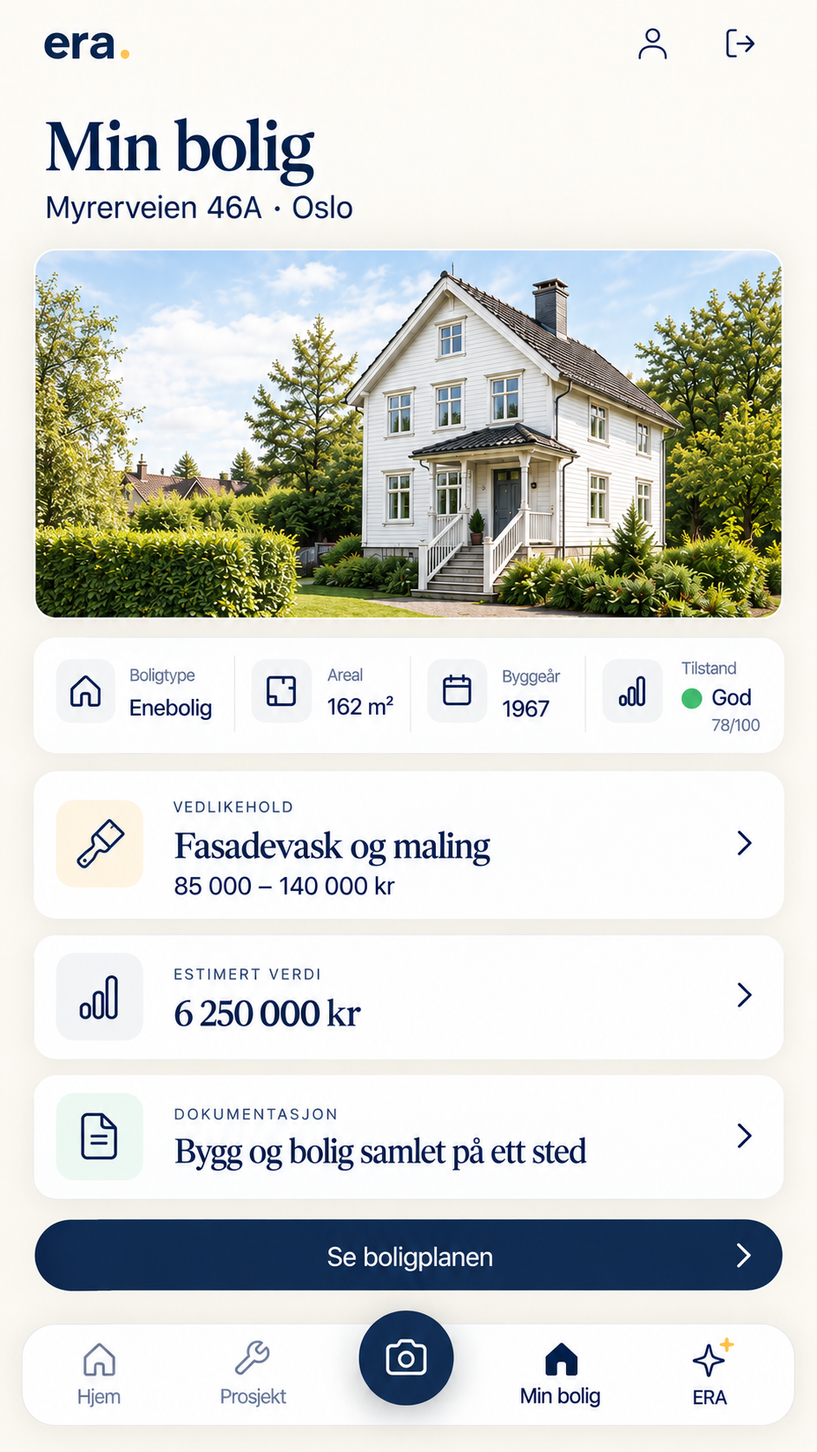
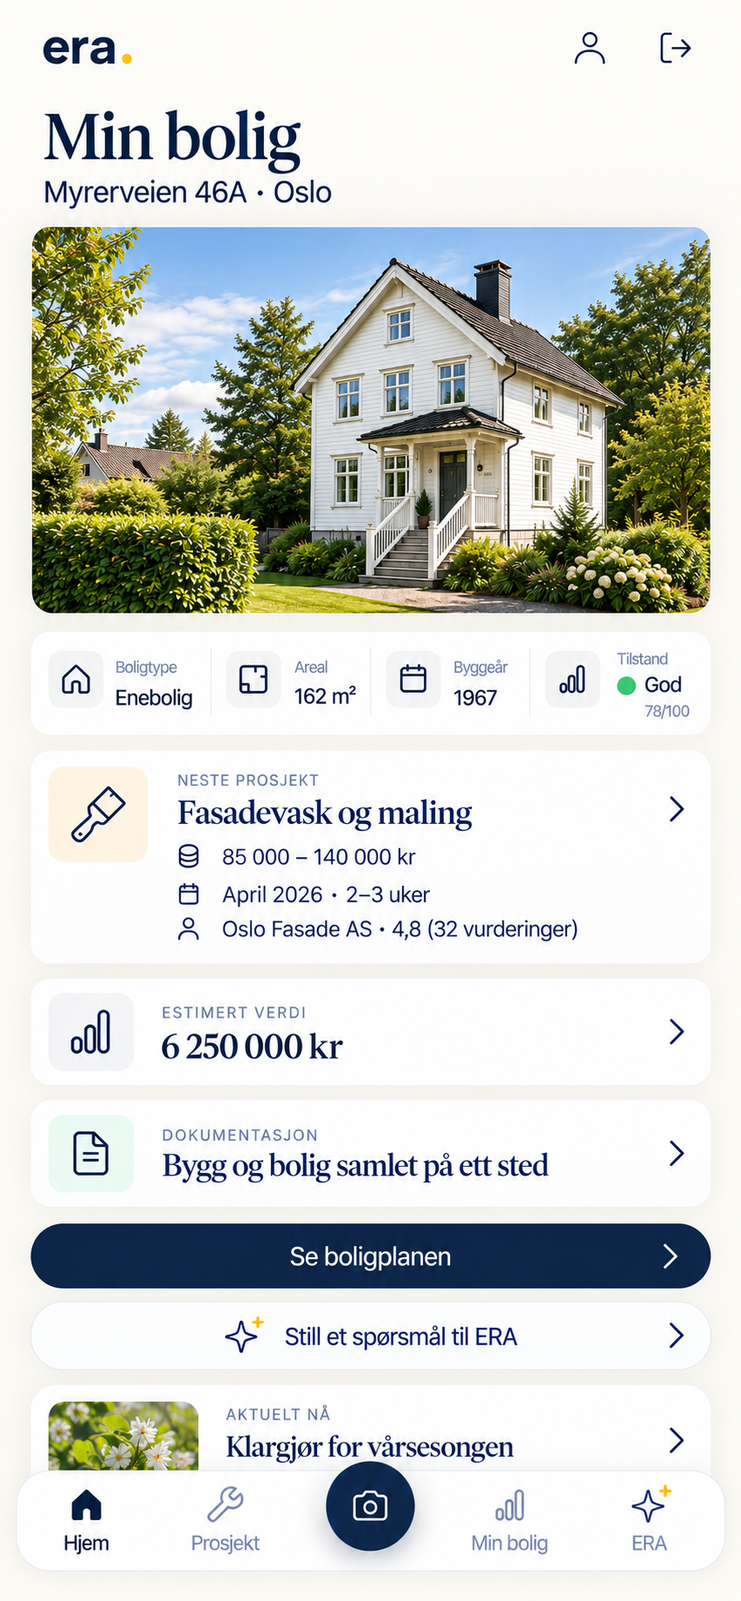
Nye Min bolig- og Boligagent-skjermer i 853×1844 (#67)
* Nye Min bolig- og Boligagent-skjermer i 853x1844

Begge er eksportert med faktaarkets tall: 1967, 85 000-140 000 kr,
6 250 000 kr, Myrerveien 46A. Alle fem skjermene ligger na pa 853x1844,
sa loop-stripen er jevn igjen — Min bolig var 91px kortere enn naboene.

Boligagenten viser na hele huset merket av med fasade og tak til
oppfolging, takrenner og grunnmur i god stand. Punktene under seksjonen
beskrev den gamle naerbildeanalysen av vinduet og er skrevet om til det
skjermen faktisk viser.

Min bolig har fatt et "Neste prosjekt"-kort med kostnad, oppstart og
handverker; alt-teksten folger.

Igjen: Hjem og Prosjekt. Hjem viser fortsatt 1987, 6,8 mill. og
80 000-120 000 kr, Prosjekt viser 80 000-120 000 kr. To av fem skjermer
i loop-stripen motsier dermed fortsatt de tre andre.

* Alt-tekst for Hjem og Prosjekt folger bildet, ikke faktaarket

Vi publiserer med de skjermene vi har. Hjem og Prosjekt er ikke
eksportert pa nytt og viser fortsatt 1987, 6,8 mill. og 80 000-120 000 kr.

Alt-tekstene deres var bundet til DEMO_HOME og ville lest opp tall en
seende besokende ikke finner pa skjermen. De beskriver na det bildet
faktisk viser.

PENDING_REEXPORT i check-demo-home.py lister de to skjermenes verdier og
rapporterer dem som advarsel i stedet for feil, sa sperren fortsatt er
brukbar. Tom dicten nar skjermene byttes — da blir de harde feil igjen.

---------

diff --git a/boligeier/index.html b/boligeier/index.html
@@ -45,12 +45,12 @@
     <p class="lede">ERA forstår hva boligen din trenger, og hva som bør gjøres først. Tilstand, historikk, dokumentasjon og prioriteringer, samlet i én plan for hjemmet.</p>
     <div class="hero-actions"><a class="btn" href="#skjema">Søk om betatilgang</a><a class="link" href="#slik">Se hvordan ERA fungerer</a></div>
   </div>
-  <div class="hero-visual"><div class="pw-phone pw-phone--lg"><img src="/assets/story/app-hjem.png" width="853" height="1844" alt="ERA Bolig på mobil: forsiden for Myrerveien 46A med boligtype enebolig, 162 m², byggeår 1967, tilstand God 78 av 100, neste tiltak «Fasadevask og maling» og estimert kostnad 85 000–140 000 kr" loading="eager" fetchpriority="high" decoding="async"></div></div>
+  <div class="hero-visual"><div class="pw-phone pw-phone--lg"><img src="/assets/story/app-hjem.png" width="853" height="1844" alt="ERA Bolig på mobil: forsiden for Myrerveien 46A med boligtype enebolig, 162 m², byggeår 1987, tilstand God 78 av 100, neste tiltak «Fasadevask og maling» og estimert kostnad 80 000–120 000 kr" loading="eager" fetchpriority="high" decoding="async"></div></div>
   </div>
 </header>
 
 <main>
-  <section class="section appsec alt appsec--flip" id="slik"><div class="wrap"><div class="appsec-text"><div class="label">Min bolig</div><h2>Alt om boligen. Ett sted.</h2><p class="lede">Ikke bare data fra registre. ERA bygger en levende boligprofil som utvikler seg når du legger til rom, dokumentasjon, arbeid og nye opplysninger.</p></div><div class="appsec-visual"><div class="pw-phone pw-phone--lg"><img src="/assets/story/app-minbolig.png" width="941" height="1672" alt="ERA Bolig: Min bolig for Myrerveien 46A – enebolig fra 1967 på 162 m² med tilstand God 78 av 100, vedlikeholdstiltaket «Fasadevask og maling» til 85 000–140 000 kr, estimert verdi 6 250 000 kr og samlet dokumentasjon" loading="lazy" decoding="async"></div></div></div></section><section class="section appsec"><div class="wrap"><div class="appsec-text"><div class="label">Kamera</div><h2>Vis ERA hva du ser.</h2><p class="lede">Ta et bilde av noe du lurer på. ERA analyserer det sammen med informasjonen den allerede har om boligen.</p><p class="fine dark2">Du starter med det du faktisk ser, ikke med et skjema.</p></div><div class="appsec-visual"><div class="pw-phone pw-phone--lg"><img src="/assets/story/app-kamera.png" width="853" height="1844" alt="ERA Bolig: kameraet rettet mot avflassende maling på kledningen ved et vindu, med teksten «Ta et bilde – fokuser på problemet, så analyserer ERA det for deg» og valget «Analyser med ERA»" loading="lazy" decoding="async"><p class="pw-phone-cap">Eksempeldata · Myrerveien 46A</p></div></div></div></section><section class="section appsec alt appsec--flip" id="boligagent"><div class="wrap"><div class="appsec-text"><div class="label">Boligagent</div><h2>Ikke bare et AI-svar. Et svar om boligen din.</h2><p class="lede">ERA kombinerer det du spør om eller viser med tilgjengelig informasjon om boligens alder, historikk, tilstand og tidligere arbeid.</p><ul class="appsec-points"><li><b>Hva jeg ser</b>Avflassing av maling og slitasje rundt vinduet.</li><li><b>Hva det betyr</b>Vanlig for hus fra denne perioden. Ikke akutt, men bør følges opp.</li><li><b>Mitt forslag</b>Få fasaden vurdert av en fagperson og hent inn tilbud.</li></ul></div><div class="appsec-visual"><div class="pw-phone pw-phone--lg"><img src="/assets/story/app-agent.png" width="853" height="1844" alt="ERA Bolig: brukeren spør «Kan du se på dette bildet?», og boligagenten svarer med det annoterte fotoet, to observasjoner, hva funnet betyr, et forslag og estimert kostnad 85 000–140 000 kr" loading="lazy" decoding="async"></div></div></div></section><section class="section appsec"><div class="wrap"><div class="appsec-text"><div class="label">Prosjekt</div><h2>Fra anbefaling til gjennomføring.</h2><p class="lede">Når noe bør gjøres, kan ERA gjøre anbefalingen om til et konkret prosjekt – fra planlegging og tilbud til gjennomføring og dokumentasjon.</p><ul class="appsec-points"><li><b>Planlegging</b>Omfang, oppstart og varighet.</li><li><b>Tilbud</b>Håndverker med vurderinger, klar for forespørsel.</li><li><b>Gjennomføring</b>Fem oppgaver fra stillas til sluttkontroll.</li></ul><p class="fine dark2">Fasadefunnet fra bildet er nå et prosjekt med kostnad, håndverker og oppgaver.</p></div><div class="appsec-visual"><div class="pw-phone pw-phone--lg"><img src="/assets/story/app-prosjekt.png" width="853" height="1844" alt="ERA Bolig: prosjektet «Fasadevask og maling» på Myrerveien 46A med estimert kostnad 85 000–140 000 kr, planlagt oppstart april 2026, fremdrift, håndverker og fem oppgaver" loading="lazy" decoding="async"><p class="pw-phone-cap">Eksempeldata</p></div></div></div></section><section class="section appsec appsec--flip" id="boligminne"><div class="wrap"><div class="appsec-text"><div class="label">Boligminne</div><h2>Alt som gjøres blir en del av boligen.</h2><p class="lede">Arbeid, dokumentasjon og historikk følger boligen videre – slik at du slipper å starte på nytt hver gang noe skal vedlikeholdes, vurderes eller forbedres.</p><ul class="appsec-points"><li><b>Det som er gjort</b>Bad, varmepumpe og tak ligger med år og dokumentasjon.</li><li><b>Det som kommer</b>Fasadeprosjektet fra bildet står som planlagt.</li></ul></div><div class="appsec-visual"><div class="pw-ui"><img src="/assets/story/app-boligminne.png" width="783" height="645" alt="ERA Bolig, boligminnet: tidslinjen 2020 nytt bad, 2022 varmepumpe, 2024 nytt tak og 2026 fasadevask og maling" loading="lazy" decoding="async"><p class="pw-phone-cap">Eksempeldata · Myrerveien 46A</p></div></div></div></section><section class="section alt" id="loopen"><div class="wrap wide"><div class="label">Hele loopen</div><h2>Fra spørsmål til ferdig dokumentert.</h2><div class="apploop"><div class="apploop-shot"><img src="/assets/story/app-hjem.png" width="853" height="1844" alt="ERA Bolig: forsiden for Myrerveien 46A med tilstand og neste tiltak" loading="lazy" decoding="async"></div><div class="apploop-shot"><img src="/assets/story/app-kamera.png" width="853" height="1844" alt="ERA Bolig: kameraet rettet mot avflassende maling ved et vindu" loading="lazy" decoding="async"></div><div class="apploop-shot"><img src="/assets/story/app-agent.png" width="853" height="1844" alt="ERA Bolig: boligagentens analyse av bildet med funn, betydning og forslag" loading="lazy" decoding="async"></div><div class="apploop-shot"><img src="/assets/story/app-prosjekt.png" width="853" height="1844" alt="ERA Bolig: prosjektet «Fasadevask og maling» med kostnad, håndverker og oppgaver" loading="lazy" decoding="async"></div><div class="apploop-shot"><img src="/assets/story/app-minbolig.png" width="941" height="1672" alt="ERA Bolig: Min bolig med nøkkeltall, vedlikeholdstiltak, estimert verdi og dokumentasjon" loading="lazy" decoding="async"></div></div><div class="apploop-steps"><div class="apploop-step"><span class="n">01</span><b>Boligen</b><span>ERA kjenner den.</span></div><div class="apploop-step"><span class="n">02</span><b>Kamera</b><span>Vis ERA problemet.</span></div><div class="apploop-step"><span class="n">03</span><b>Boligagent</b><span>Forstå hva det betyr.</span></div><div class="apploop-step"><span class="n">04</span><b>Prosjekt</b><span>Planlegg og gjennomfør.</span></div><div class="apploop-step"><span class="n">05</span><b>Min bolig</b><span>Dokumenter og husk.</span></div></div><p class="fine dark2">Eksempeldata. Samme bolig, Myrerveien 46A, gjennom hele loopen.</p></div></section>
+  <section class="section appsec alt appsec--flip" id="slik"><div class="wrap"><div class="appsec-text"><div class="label">Min bolig</div><h2>Alt om boligen. Ett sted.</h2><p class="lede">Ikke bare data fra registre. ERA bygger en levende boligprofil som utvikler seg når du legger til rom, dokumentasjon, arbeid og nye opplysninger.</p></div><div class="appsec-visual"><div class="pw-phone pw-phone--lg"><img src="/assets/story/app-minbolig.png" width="853" height="1844" alt="ERA Bolig: Min bolig for Myrerveien 46A – enebolig fra 1967 på 162 m² med tilstand God 78 av 100, neste prosjekt «Fasadevask og maling» til 85 000–140 000 kr med oppstart april 2026 og Oslo Fasade AS, estimert verdi 6 250 000 kr og samlet dokumentasjon" loading="lazy" decoding="async"></div></div></div></section><section class="section appsec"><div class="wrap"><div class="appsec-text"><div class="label">Kamera</div><h2>Vis ERA hva du ser.</h2><p class="lede">Ta et bilde av noe du lurer på. ERA analyserer det sammen med informasjonen den allerede har om boligen.</p><p class="fine dark2">Du starter med det du faktisk ser, ikke med et skjema.</p></div><div class="appsec-visual"><div class="pw-phone pw-phone--lg"><img src="/assets/story/app-kamera.png" width="853" height="1844" alt="ERA Bolig: kameraet rettet mot avflassende maling på kledningen ved et vindu, med teksten «Ta et bilde – fokuser på problemet, så analyserer ERA det for deg» og valget «Analyser med ERA»" loading="lazy" decoding="async"><p class="pw-phone-cap">Eksempeldata · Myrerveien 46A</p></div></div></div></section><section class="section appsec alt appsec--flip" id="boligagent"><div class="wrap"><div class="appsec-text"><div class="label">Boligagent</div><h2>Ikke bare et AI-svar. Et svar om boligen din.</h2><p class="lede">ERA kombinerer det du spør om eller viser med tilgjengelig informasjon om boligens alder, historikk, tilstand og tidligere arbeid.</p><ul class="appsec-points"><li><b>Hva jeg ser</b>Fasade og tak bør følges opp. Takrenner og grunnmur er i god stand.</li><li><b>Hva det betyr</b>Boligen er fra 1967. Det gjør fasade, tak og el-anlegg verdt å se nærmere på.</li><li><b>Mitt forslag</b>«Fasadevask og maling» med kostnad, oppstart og en håndverker som kan gjøre jobben.</li></ul></div><div class="appsec-visual"><div class="pw-phone pw-phone--lg"><img src="/assets/story/app-agent.png" width="853" height="1844" alt="ERA Bolig, boligagenten for Myrerveien 46A: fotoet av huset er merket av med fasade og tak til oppfølging og takrenner og grunnmur i god stand, etterfulgt av «Hva jeg ser» med de fire punktene, «Hva det betyr» for en bolig fra 1967, og forslaget «Fasadevask og maling» med estimert kostnad 85 000–140 000 kr, oppstart april 2026 og Oslo Fasade AS" loading="lazy" decoding="async"></div></div></div></section><section class="section appsec"><div class="wrap"><div class="appsec-text"><div class="label">Prosjekt</div><h2>Fra anbefaling til gjennomføring.</h2><p class="lede">Når noe bør gjøres, kan ERA gjøre anbefalingen om til et konkret prosjekt – fra planlegging og tilbud til gjennomføring og dokumentasjon.</p><ul class="appsec-points"><li><b>Planlegging</b>Omfang, oppstart og varighet.</li><li><b>Tilbud</b>Håndverker med vurderinger, klar for forespørsel.</li><li><b>Gjennomføring</b>Fem oppgaver fra stillas til sluttkontroll.</li></ul><p class="fine dark2">Fasadefunnet fra bildet er nå et prosjekt med kostnad, håndverker og oppgaver.</p></div><div class="appsec-visual"><div class="pw-phone pw-phone--lg"><img src="/assets/story/app-prosjekt.png" width="853" height="1844" alt="ERA Bolig: prosjektet «Fasadevask og maling» på Myrerveien 46A med estimert kostnad 80 000–120 000 kr, planlagt oppstart april 2026, fremdrift, håndverker og fem oppgaver" loading="lazy" decoding="async"><p class="pw-phone-cap">Eksempeldata</p></div></div></div></section><section class="section appsec appsec--flip" id="boligminne"><div class="wrap"><div class="appsec-text"><div class="label">Boligminne</div><h2>Alt som gjøres blir en del av boligen.</h2><p class="lede">Arbeid, dokumentasjon og historikk følger boligen videre – slik at du slipper å starte på nytt hver gang noe skal vedlikeholdes, vurderes eller forbedres.</p><ul class="appsec-points"><li><b>Det som er gjort</b>Bad, varmepumpe og tak ligger med år og dokumentasjon.</li><li><b>Det som kommer</b>Fasadeprosjektet fra bildet står som planlagt.</li></ul></div><div class="appsec-visual"><div class="pw-ui"><img src="/assets/story/app-boligminne.png" width="783" height="645" alt="ERA Bolig, boligminnet: tidslinjen 2020 nytt bad, 2022 varmepumpe, 2024 nytt tak og 2026 fasadevask og maling" loading="lazy" decoding="async"><p class="pw-phone-cap">Eksempeldata · Myrerveien 46A</p></div></div></div></section><section class="section alt" id="loopen"><div class="wrap wide"><div class="label">Hele loopen</div><h2>Fra spørsmål til ferdig dokumentert.</h2><div class="apploop"><div class="apploop-shot"><img src="/assets/story/app-hjem.png" width="853" height="1844" alt="ERA Bolig: forsiden for Myrerveien 46A med tilstand og neste tiltak" loading="lazy" decoding="async"></div><div class="apploop-shot"><img src="/assets/story/app-kamera.png" width="853" height="1844" alt="ERA Bolig: kameraet rettet mot avflassende maling ved et vindu" loading="lazy" decoding="async"></div><div class="apploop-shot"><img src="/assets/story/app-agent.png" width="853" height="1844" alt="ERA Bolig: boligagentens analyse av huset med funn, betydning og forslag" loading="lazy" decoding="async"></div><div class="apploop-shot"><img src="/assets/story/app-prosjekt.png" width="853" height="1844" alt="ERA Bolig: prosjektet «Fasadevask og maling» med kostnad, håndverker og oppgaver" loading="lazy" decoding="async"></div><div class="apploop-shot"><img src="/assets/story/app-minbolig.png" width="853" height="1844" alt="ERA Bolig: Min bolig med nøkkeltall, neste prosjekt, estimert verdi og dokumentasjon" loading="lazy" decoding="async"></div></div><div class="apploop-steps"><div class="apploop-step"><span class="n">01</span><b>Boligen</b><span>ERA kjenner den.</span></div><div class="apploop-step"><span class="n">02</span><b>Kamera</b><span>Vis ERA problemet.</span></div><div class="apploop-step"><span class="n">03</span><b>Boligagent</b><span>Forstå hva det betyr.</span></div><div class="apploop-step"><span class="n">04</span><b>Prosjekt</b><span>Planlegg og gjennomfør.</span></div><div class="apploop-step"><span class="n">05</span><b>Min bolig</b><span>Dokumenter og husk.</span></div></div><p class="fine dark2">Eksempeldata. Samme bolig, Myrerveien 46A, gjennom hele loopen.</p></div></section>
 
   
 

diff --git a/tools/build-pages.py b/tools/build-pages.py
@@ -150,18 +150,23 @@ AUDIENCES = {
         label="For boligeier", hook="Boligeierskap uten gjetting.",
         lede="ERA forstår hva boligen din trenger, og hva som bør gjøres først. Tilstand, historikk, dokumentasjon og prioriteringer, samlet i én plan for hjemmet.",
         image="/assets/story/couple-sofa-v3.jpg", image_pos="55% 55%",
+        # Alt-teksten beskriver det bildet faktisk viser, ikke faktaarket. app-hjem.png er ikke
+        # eksportert på nytt ennå og viser fortsatt 1987, 6,8 mill. og 80 000–120 000 kr. En
+        # alt-tekst som fulgte DEMO_HOME ville lest opp tall som ikke står på skjermen. Se
+        # PENDING_REEXPORT i tools/check-demo-home.py.
         app_hero=dict(src="/assets/story/app-hjem.png", w=853, h=1844, size="lg",
                       alt=f"ERA Bolig på mobil: forsiden for {DEMO_HOME['address']} med boligtype {DEMO_HOME['type']}, "
-                          f"{DEMO_HOME['area']}, byggeår {DEMO_HOME['year']}, tilstand {DEMO_HOME['condition']} "
-                          f"{DEMO_HOME['score']}, neste tiltak «{DEMO_HOME['measure']}» og estimert kostnad {DEMO_HOME['cost']}"),
+                          f"{DEMO_HOME['area']}, byggeår 1987, tilstand {DEMO_HOME['condition']} "
+                          f"{DEMO_HOME['score']}, neste tiltak «{DEMO_HOME['measure']}» og estimert kostnad 80 000–120 000 kr"),
         app_sections=[
             app_section(
                 "Min bolig", "Alt om boligen. Ett sted.",
                 "Ikke bare data fra registre. ERA bygger en levende boligprofil som utvikler seg når du legger til rom, dokumentasjon, arbeid og nye opplysninger.",
-                phone("/assets/story/app-minbolig.png", 941, 1672,
+                phone("/assets/story/app-minbolig.png", 853, 1844,
                       f"ERA Bolig: Min bolig for {DEMO_HOME['address']} – {DEMO_HOME['type']} fra {DEMO_HOME['year']} på "
-                      f"{DEMO_HOME['area']} med tilstand {DEMO_HOME['condition']} {DEMO_HOME['score']}, vedlikeholdstiltaket "
-                      f"«{DEMO_HOME['measure']}» til {DEMO_HOME['cost']}, estimert verdi {DEMO_HOME['value']} og samlet dokumentasjon",
+                      f"{DEMO_HOME['area']} med tilstand {DEMO_HOME['condition']} {DEMO_HOME['score']}, neste prosjekt "
+                      f"«{DEMO_HOME['measure']}» til {DEMO_HOME['cost']} med oppstart {DEMO_HOME['start']} og "
+                      f"{DEMO_HOME['pro']}, estimert verdi {DEMO_HOME['value']} og samlet dokumentasjon",
                       "lg"),
                 alt_bg=True, flip=True, sid="slik"),
             app_section(
@@ -175,19 +180,22 @@ AUDIENCES = {
                 "Boligagent", "Ikke bare et AI-svar. Et svar om boligen din.",
                 "ERA kombinerer det du spør om eller viser med tilgjengelig informasjon om boligens alder, historikk, tilstand og tidligere arbeid.",
                 phone("/assets/story/app-agent.png", 853, 1844,
-                      "ERA Bolig: brukeren spør «Kan du se på dette bildet?», og boligagenten svarer med det annoterte "
-                      f"fotoet, to observasjoner, hva funnet betyr, et forslag og estimert kostnad {DEMO_HOME['cost']}",
+                      f"ERA Bolig, boligagenten for {DEMO_HOME['address']}: fotoet av huset er merket av med fasade og tak "
+                      "til oppfølging og takrenner og grunnmur i god stand, etterfulgt av «Hva jeg ser» med de fire "
+                      f"punktene, «Hva det betyr» for en bolig fra {DEMO_HOME['year']}, og forslaget «{DEMO_HOME['measure']}» "
+                      f"med estimert kostnad {DEMO_HOME['cost']}, oppstart {DEMO_HOME['start']} og {DEMO_HOME['pro']}",
                       "lg"),
-                points=[("Hva jeg ser", "Avflassing av maling og slitasje rundt vinduet."),
-                        ("Hva det betyr", "Vanlig for hus fra denne perioden. Ikke akutt, men bør følges opp."),
-                        ("Mitt forslag", "Få fasaden vurdert av en fagperson og hent inn tilbud.")],
+                points=[("Hva jeg ser", "Fasade og tak bør følges opp. Takrenner og grunnmur er i god stand."),
+                        ("Hva det betyr", f"Boligen er fra {DEMO_HOME['year']}. Det gjør fasade, tak og el-anlegg verdt å se nærmere på."),
+                        ("Mitt forslag", f"«{DEMO_HOME['measure']}» med kostnad, oppstart og en håndverker som kan gjøre jobben.")],
                 alt_bg=True, flip=True, sid="boligagent"),
             app_section(
                 "Prosjekt", "Fra anbefaling til gjennomføring.",
                 "Når noe bør gjøres, kan ERA gjøre anbefalingen om til et konkret prosjekt – fra planlegging og tilbud til gjennomføring og dokumentasjon.",
+                # Som heroen: app-prosjekt.png viser fortsatt 80 000–120 000 kr.
                 phone("/assets/story/app-prosjekt.png", 853, 1844,
                       f"ERA Bolig: prosjektet «{DEMO_HOME['measure']}» på {DEMO_HOME['address']} med estimert kostnad "
-                      f"{DEMO_HOME['cost']}, planlagt oppstart {DEMO_HOME['start']}, fremdrift, håndverker og fem oppgaver",
+                      f"80 000–120 000 kr, planlagt oppstart {DEMO_HOME['start']}, fremdrift, håndverker og fem oppgaver",
                       "lg", cap="Eksempeldata"),
                 points=[("Planlegging", "Omfang, oppstart og varighet."),
                         ("Tilbud", "Håndverker med vurderinger, klar for forespørsel."),
@@ -209,11 +217,11 @@ AUDIENCES = {
                  ("Kamera", "Vis ERA problemet.", "/assets/story/app-kamera.png",
                   "ERA Bolig: kameraet rettet mot avflassende maling ved et vindu", 853, 1844),
                  ("Boligagent", "Forstå hva det betyr.", "/assets/story/app-agent.png",
-                  "ERA Bolig: boligagentens analyse av bildet med funn, betydning og forslag", 853, 1844),
+                  "ERA Bolig: boligagentens analyse av huset med funn, betydning og forslag", 853, 1844),
                  ("Prosjekt", "Planlegg og gjennomfør.", "/assets/story/app-prosjekt.png",
                   "ERA Bolig: prosjektet «Fasadevask og maling» med kostnad, håndverker og oppgaver", 853, 1844),
                  ("Min bolig", "Dokumenter og husk.", "/assets/story/app-minbolig.png",
-                  "ERA Bolig: Min bolig med nøkkeltall, vedlikeholdstiltak, estimert verdi og dokumentasjon", 941, 1672)],
+                  "ERA Bolig: Min bolig med nøkkeltall, neste prosjekt, estimert verdi og dokumentasjon", 853, 1844)],
                 "Eksempeldata. Samme bolig, Myrerveien 46A, gjennom hele loopen."),
         ],
         gains=[

diff --git a/tools/check-demo-home.py b/tools/check-demo-home.py
@@ -40,6 +40,17 @@ STALE_ANYWHERE = {
     "Borgveien": "gammelt gatenavn (skal vare Myrerveien)",
 }
 
+# Screens not re-exported yet. app-hjem.png and app-prosjekt.png still show these values, and the
+# alt texts describe what is on screen rather than the fact sheet — an alt text that read out the
+# fact sheet would announce numbers a sighted visitor cannot see. Reported as a warning, not a
+# failure, so the guard stays usable. Empty this dict the day both screens are re-exported: the
+# values then go back to being hard failures.
+PENDING_REEXPORT = {
+    "1987": "app-hjem.png er ikke eksportert pa nytt (skal vare 1967)",
+    "80 000–120 000": "app-hjem.png og app-prosjekt.png er ikke eksportert pa nytt (skal vare 85 000–140 000 kr)",
+    "6,8 mill": "app-hjem.png er ikke eksportert pa nytt (skal vare 6 250 000 kr)",
+}
+
 # Must still be present somewhere on /boligeier, so a rewrite cannot quietly drop the facts.
 REQUIRED = ["Myrerveien 46A", "1967", "85 000–140 000 kr", "6 250 000 kr", "162 m²"]
 
@@ -52,6 +63,8 @@ EXTRA_FILES = ["index.html", "om-era/index.html", "partner/jotun/index.html"]
 def main():
     problems = []
 
+    warnings = []
+
     for slug in PAGES:
         path = os.path.join(ROOT, slug, "index.html")
         if not os.path.exists(path):
@@ -62,7 +75,12 @@ def main():
         if slug == "boligeier":
             checks.update(STALE_BOLIGEIER)
         for bad, why in checks.items():
-            if bad in html:
+            if bad not in html:
+                continue
+            if slug == "boligeier" and bad in PENDING_REEXPORT:
+                warnings.append("%s/index.html inneholder fortsatt %r — %s"
+                                % (slug, bad, PENDING_REEXPORT[bad]))
+            else:
                 problems.append("%s/index.html inneholder %r — %s" % (slug, bad, why))
 
     for rel in EXTRA_FILES:
@@ -85,6 +103,11 @@ def main():
     else:
         problems.append("boligeier/index.html finnes ikke — kjor tools/build-pages.py forst")
 
+    for w in warnings:
+        print("  ADVARSEL " + w)
+    if warnings:
+        print("")
+
     if problems:
         print("DEMO HOME CHECK: %d problem(er)\n" % len(problems))
         for p in problems:
@@ -93,6 +116,8 @@ def main():
         return 1
 
     print("DEMO HOME CHECK: ok — Myrerveien 46A er konsistent i alle genererte sider")
+    if warnings:
+        print("%d skjermbilde-verdi(er) venter pa ny eksport, se PENDING_REEXPORT." % len(warnings))
     return 0
 
 

diff --git a/README.md b/README.md
@@ -111,7 +111,9 @@ Tre ulike verdier for samme bolig har rukket å gå i produksjon ved et uhell (6
 
 Sjekken leser generert HTML og **kan ikke se inn i en PNG**. Når en skjerm eksporteres på nytt, må bildet kontrolleres med øynene og alt-teksten stemmes av mot det; sperren hindrer først drift etterpå.
 
-- **Åpent (sept. 2026):** `/boligeier` er internt motstridende. Min bolig er byttet til det nye datasettet (1967, 85 000–140 000 kr, 6 250 000 kr), mens Hjem, Boligagent og Prosjekt fortsatt viser 1987 og 80 000–120 000 kr — og de står ved siden av hverandre i loop-stripen. Alt-tekstene følger faktaarket og beskriver derfor foreløpig verdier som ikke står på de tre gamle bildene. Løses av tre nye eksporter i 853×1844. Ikke publiser siden før de er på plass.
+- **Åpent (sept. 2026):** Min bolig og Boligagent er byttet til det nye datasettet (1967, 85 000–140 000 kr, 6 250 000 kr). **Hjem og Prosjekt er ikke eksportert på nytt** og viser fortsatt 1987, 6,8 mill. og 80 000–120 000 kr, så loop-stripen har to skjermer som motsier de tre andre. Det er en bevisst avveining — siden er publisert med avviket.
+
+  Alt-tekstene for de to gamle skjermene beskriver **det bildet faktisk viser**, ikke faktaarket. En alt-tekst som fulgte `DEMO_HOME` ville lest opp tall en seende besøkende ikke finner på skjermen. `PENDING_REEXPORT` i `tools/check-demo-home.py` lister nøyaktig hvilke verdier det gjelder, og rapporterer dem som advarsel i stedet for feil. **Tøm den dicten når de to skjermene er byttet** — da går verdiene tilbake til å være harde feil.
 
 ## Placeholder-mekanikken for foto
 
